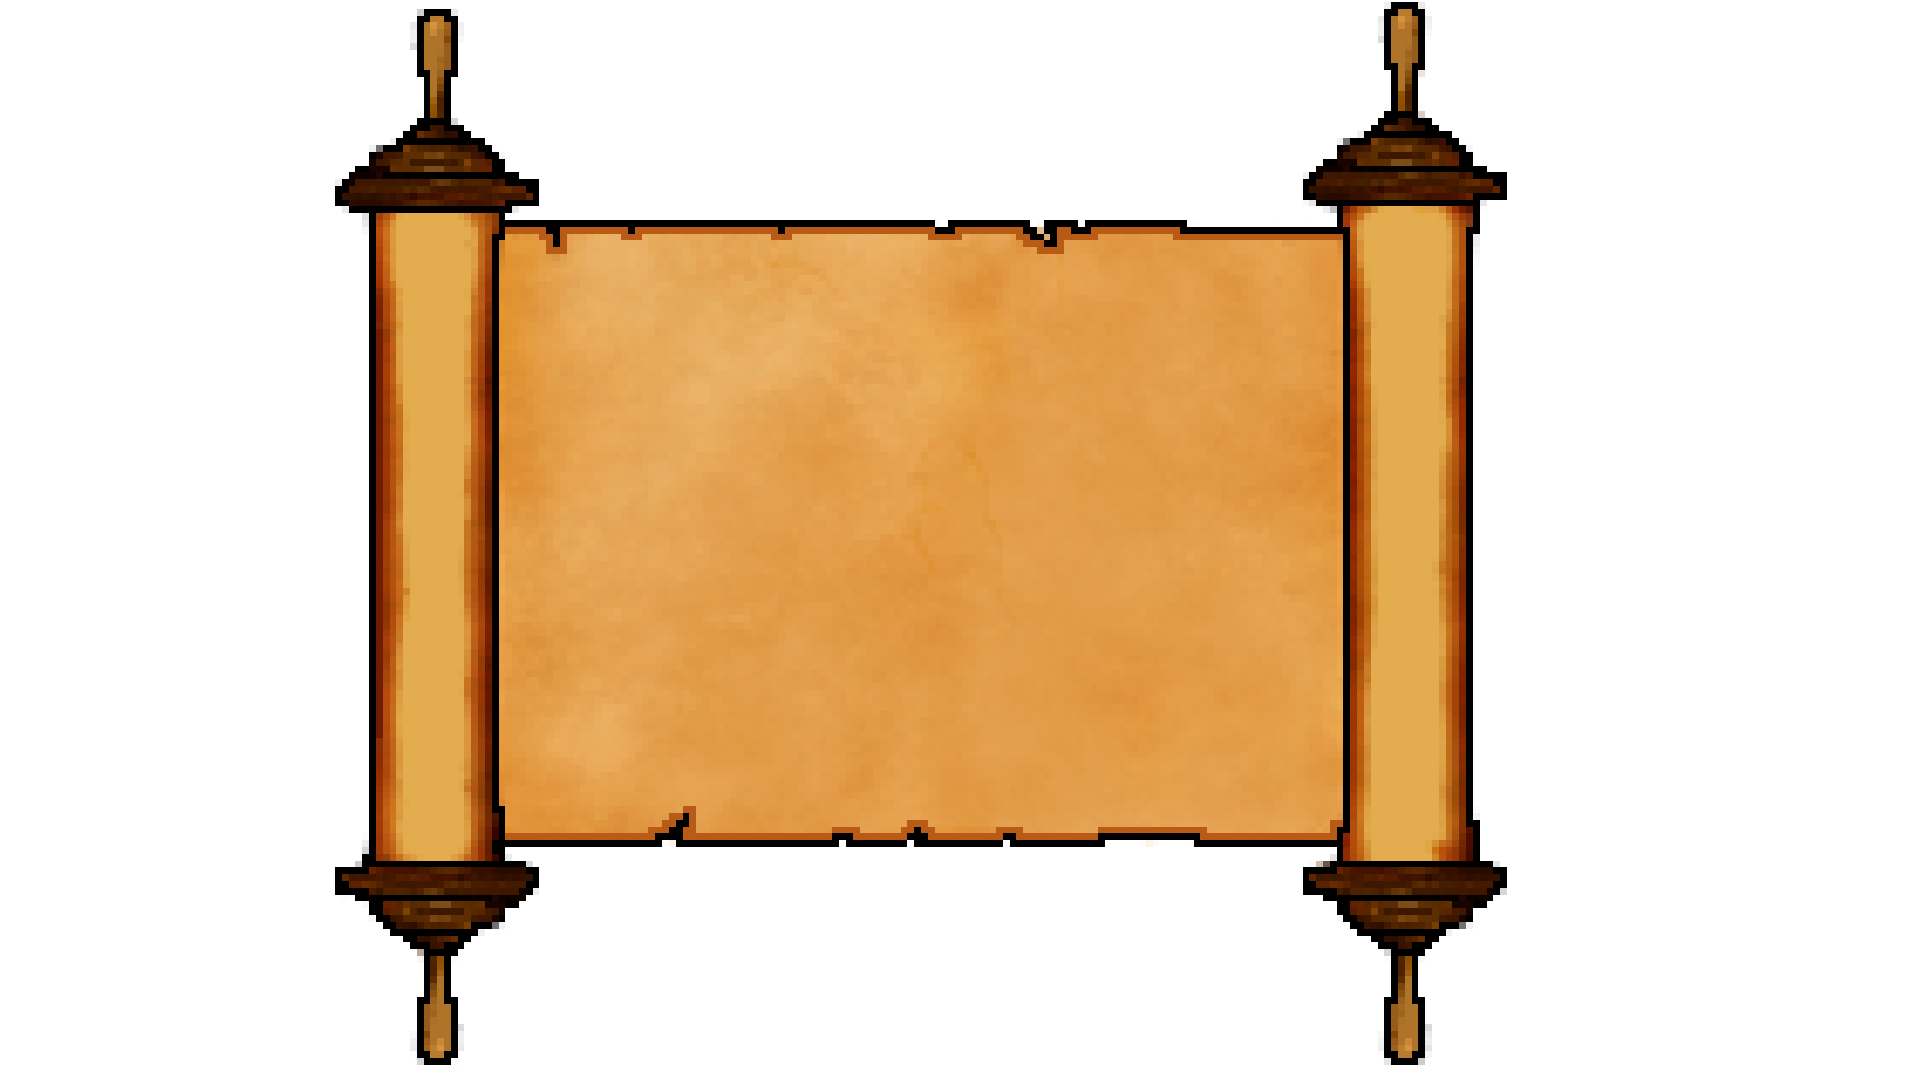
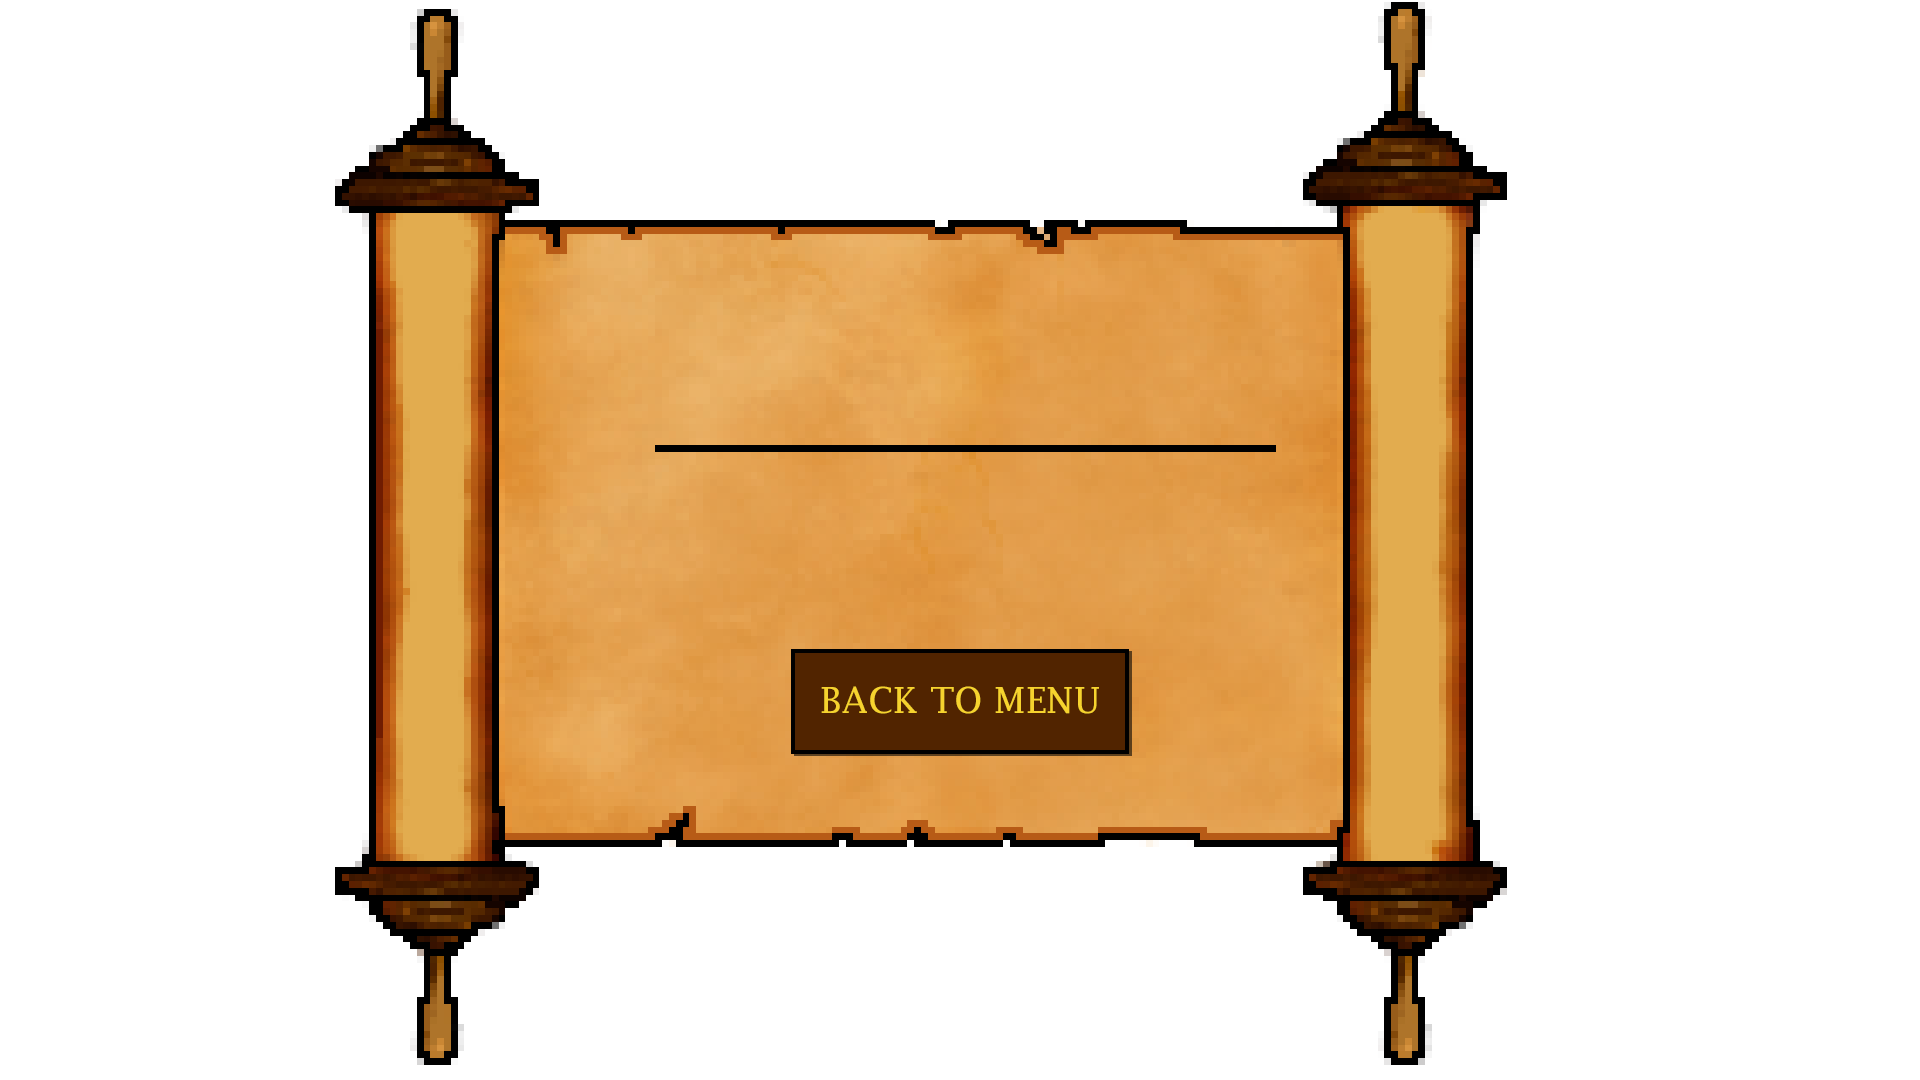
19.08

Changed region(s): [[0.4062, 0.5806, 0.5938, 0.7028], [0.3438, 0.3972, 0.6562, 0.4278]]

diff --git a/main.py b/main.py
@@ -18,6 +18,8 @@ BLUE  = (  0,   0, 255)
 RED   = (255,   0,   0)
 GREY  = ( 71,  58,  53)
 
+game_start = False
+
 fontCavier = pygame.font.Font(os.path.join("fonts", "CaviarDreams.ttf"), 24)
 fontDeja = pygame.font.Font(os.path.join("fonts", "DejaVuSans.ttf"), 64)
 fontCapture = pygame.font.Font(os.path.join("fonts", "Capture_it.ttf"), 28)
@@ -36,7 +38,11 @@ song = pygame.mixer.Sound(os.path.join("music", "main_song2.ogg"))
 song.set_volume(0.5)  #0.5
 song.play()
 
+
 def game():
+
+    global game_start, web_list, player1, player2, mass, soldiers, turn, heroes, am, pulls
+    game_start = True
 
     sleeping = False
     clicked = False
@@ -80,12 +86,20 @@ def game():
     screen.blit(fon, (0, 0))
     screen.blit(web, (0, 0))
     screen.blit(turn_bttn, (screenX / 2 - turn_bttn.get_width() / 2 - 8, 30))
+    screen.blit(settings_game_button,(1920 / 2  + 328 - settings_game_button.get_width() / 2, settings_game_button.get_height()/2 ))
+
 
     while True:
 
         if (not sleeping):
 
             if (clicked):
+
+                if click_x < (1920 / 2  + 328 + settings_game_button.get_width() / 2) and click_x > (1920 / 2  + 328 - settings_game_button.get_width() / 2) and click_y < 1.5*settings_game_button.get_height() and  click_y > 0.5*settings_game_button.get_height():
+
+                    settings()
+
+
 
                 if (turn < 50):
 
@@ -386,7 +400,7 @@ def menu():
                 click_x, click_y = ev.pos
 
 def settings():
-    global slider_x, song
+    global slider_x, song, game_start, web_list, player1, player2, mass, soldiers, turn, heroes, am, pulls
 
     textSound = fontDeja.render("Sound", True, BLACK)
     textPro = fontDeja.render("(" + str((slider_x - 620) // 31 * 5) + "%)", True, BLACK)
@@ -402,8 +416,66 @@ def settings():
 
         if (clicked == True):
 
-            if (click_x <= 360 or click_x >= 1560) or (click_y <= 210 or click_y >= 870):
+            if (click_x <= 1138 and click_x >= 796) and (click_y <= 763  and click_y >= 655):
+                game_start = False
                 menu()
+
+            if (click_x <= 360 or click_x >= 1560) or (click_y <= 210 or click_y >= 870):
+
+                if game_start == False:
+                    menu()
+                else:
+                    screen.fill((GREEN))
+                    screen.blit(fon, (0, 0))
+                    screen.blit(web, (0, 0))
+                    screen.blit(turn_bttn, (screenX / 2 - turn_bttn.get_width() / 2 - 8, 30))
+                    screen.blit(settings_game_button,(1920 / 2  + 328 - settings_game_button.get_width() / 2, settings_game_button.get_height()/2 ))
+
+                    for i in range(50):
+                        if player1[i]==1:
+                            screen.blit(mass[i], (web_list[i][0] - mass[i].get_width() / 2, web_list[i][1] - mass[i].get_height() / 2))
+                            screen.blit(player1_gex, (web_list[i][0] - player1_gex.get_width() / 2, web_list[i][1] - player1_gex.get_height() / 2))
+                        if player2[i]==1:
+                            screen.blit(mass[i], (web_list[i][0] - mass[i].get_width() / 2, web_list[i][1] - mass[i].get_height() / 2))
+                            screen.blit(player2_gex, (web_list[i][0] - player2_gex.get_width() / 2, web_list[i][1] - player2_gex.get_height() / 2))
+
+                    for i in range(50):
+
+                        if (soldiers[i] > 0 and soldiers[i] < 45):
+
+                            for j in range(((soldiers[i] - soldiers[i] // 15 * 15) // 5) + 1):
+
+                                screen.blit(heroes[soldiers[i] // 15], \
+                                (web_list[i][0] - heroes[soldiers[i] // 15].get_width() / 2 - j * 10  , web_list[i][1] - heroes[soldiers[i] // 15].get_height() / 2 + j * 5))
+
+                            text = fontCapture.render(str(soldiers[i]), True, (255, 255, 255, 255))
+                            screen.blit(text, (web_list[i][0] - 15, web_list[i][1] - 70))
+
+                    if turn>=50:
+                        if (turn % 2 == 0):
+                            text = fontCapture.render("player 2", True, GREY)
+                            screen.blit(text, (screenX  / 2 - text.get_width() / 2, 0))
+                            text = fontCapture.render("player 1", True, WHITE)
+                            screen.blit(text, (screenX  / 2  - text.get_width() / 2, 0))
+
+                        else:
+                            text = fontCapture.render("player 1", True, GREY)
+                            screen.blit(text, (screenX  / 2 - text.get_width() / 2, 0))
+                            text = fontCapture.render("player 2", True, WHITE)
+                            screen.blit(text, (screenX  / 2  - text.get_width() / 2, 0))
+
+                        screen.blit(green_gex, (280 - green_gex.get_width() / 2, -108))
+                        text = fontCapture.render("blue : " + str(pulls[0]), True, WHITE)
+                        screen.blit(text, (screenX  / 8  - text.get_width() / 2 + 45, 10))
+
+                        screen.blit(green_gex, (1624 - green_gex.get_width() / 2, -108))
+                        text = fontCapture.render("red : " + str(pulls[1]), True, WHITE)
+                        screen.blit(text, (screenX  / 8 * 7  - text.get_width() / 2 - 50, 10))
+
+                        am = int(amount(screen, click_x, click_y, button_x1, button_x5, button_x10))
+                    break
+
+
 
             elif (clicked and click_x >= 620 and click_x <= 1240\
                     and click_y >= 310 and click_y <= 536):

diff --git a/sheets.py b/sheets.py
@@ -74,6 +74,8 @@ button_exit = pygame.image.load(os.path.join("pics/menu", "button_exit.png"))
 button_play = pygame.image.load(os.path.join("pics/menu", "button_play.png"))
 button_settings = pygame.image.load(os.path.join("pics/menu", "button_settings.png"))
 
+settings_game_button = pygame.image.load(os.path.join("pics", "settings_game_button.png"))
+
 
 fon = pygame.image.load(os.path.join("pics", "fon.png"))
 mass = []
